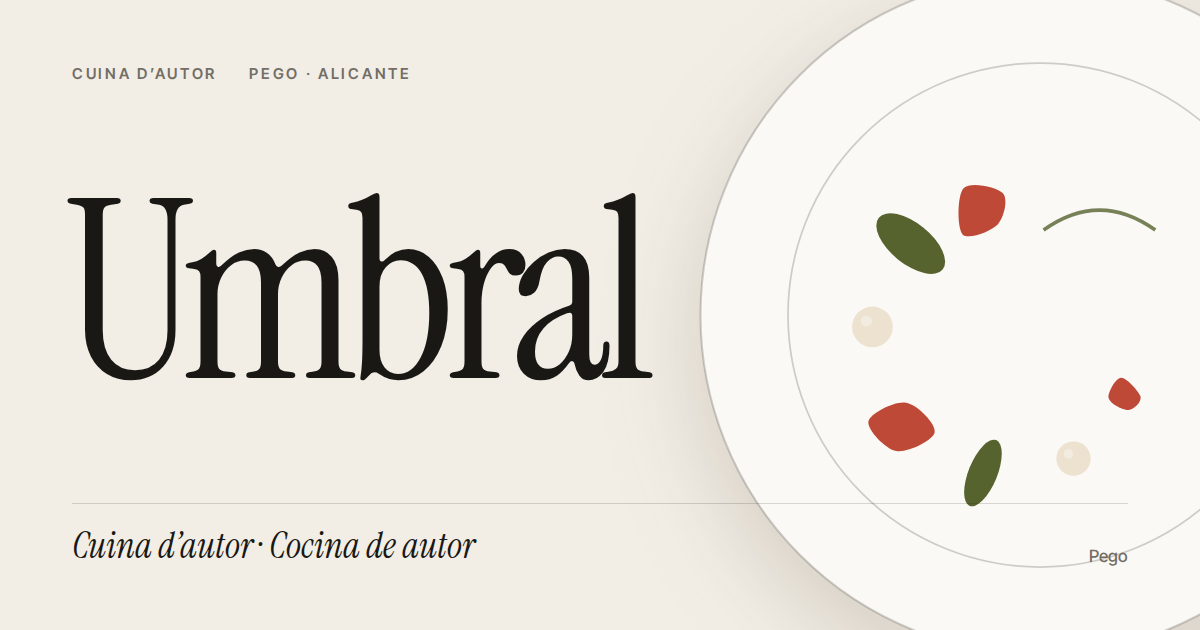
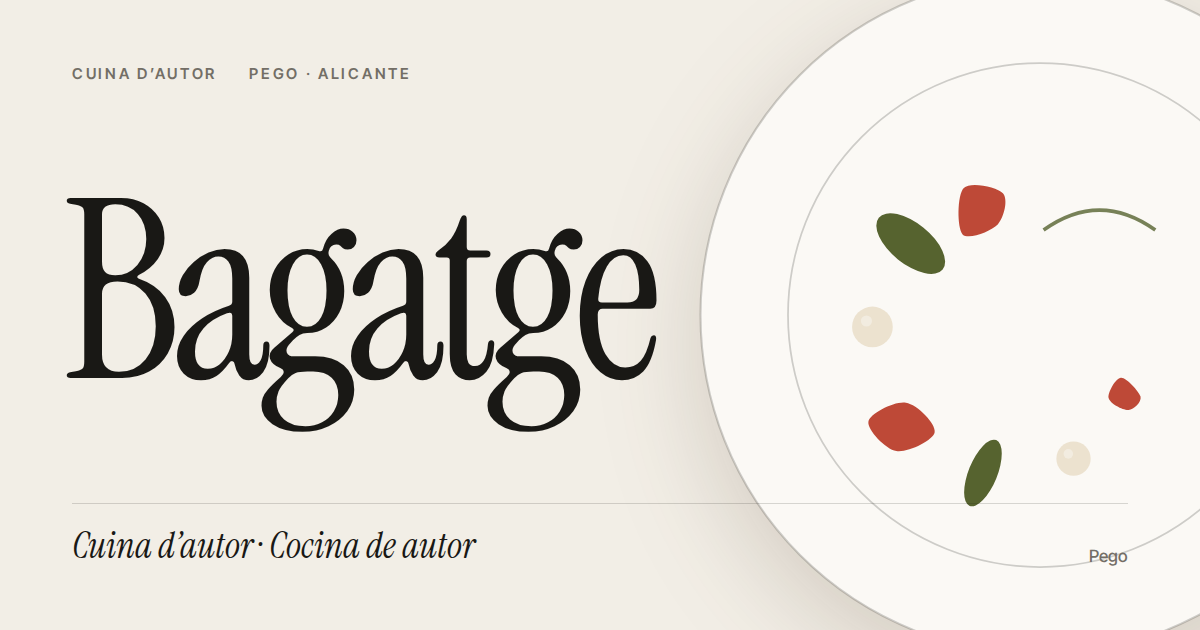
Pone el nombre definitivo: Bagatge
- Nombre del restaurante en toda la web, correos, SMS, datos
  estructurados, imagen para redes e iconos (regenerados).
- El menú largo pasa a llamarse «Bagatge».
- Más espacio para los descendentes de la «g» en la portada, el pie y el
  título del menú; la portada usa un cuerpo algo menor.
- Dominio previsto: bagatgerestaurant (se activa con SITE_URL).

Claude-Session: https://claude.ai/code/session_01UAizKvTfxv784jPSKfzqZ6

Changed region(s): [[0.0617, 0.3016, 0.555, 0.6937]]

diff --git a/restaurante/src/assets/css/site.css b/restaurante/src/assets/css/site.css
@@ -360,13 +360,14 @@ main > .section:last-of-type { padding-bottom: clamp(72px, 11vw, 168px); }
 .hero-meta { display: flex; flex-wrap: wrap; gap: 6px 28px; margin-bottom: clamp(8px, 2vh, 24px); }
 .hero-title {
   font-family: var(--serif);
-  font-size: clamp(96px, 23vw, 380px);
+  font-size: clamp(96px, 21vw, 340px);
   line-height: .78;
   letter-spacing: -.045em;
   margin-left: -.04em;
-  margin-bottom: clamp(24px, 5vh, 56px);
+  margin-bottom: clamp(8px, 2vh, 24px);
 }
-.hero-word { display: inline-flex; overflow: hidden; padding-bottom: .08em; }
+/* La máscara de la animación deja sitio a los descendentes (g, p, j). */
+.hero-word { display: inline-flex; overflow: hidden; padding-bottom: .26em; }
 .hero-word span { display: inline-block; transform: translateY(105%); animation: letter-up 1.2s var(--ease) both; animation-delay: calc(.15s + var(--i) * .06s); }
 @keyframes letter-up { to { transform: none; } }
 .hero-foot {
@@ -469,7 +470,7 @@ main > .section:last-of-type { padding-bottom: clamp(72px, 11vw, 168px); }
 .menu-detail + .menu-detail { margin-top: clamp(56px, 8vw, 120px); border-top: 1px solid var(--line); }
 .menu-detail-head { display: grid; grid-template-columns: minmax(0, 5fr) minmax(0, 7fr); gap: 24px clamp(32px, 6vw, 96px); align-items: end; margin-bottom: clamp(40px, 6vw, 80px); }
 .menu-detail-head .eyebrow { grid-column: 1 / -1; }
-.menu-detail-title { font-family: var(--serif); font-size: clamp(80px, 14vw, 220px); line-height: .82; letter-spacing: -.04em; padding-bottom: .14em; }
+.menu-detail-title { font-family: var(--serif); font-size: clamp(80px, 14vw, 220px); line-height: .82; letter-spacing: -.04em; padding-bottom: .24em; }
 .menu-detail-head .lead { grid-column: 2; grid-row: 2; align-self: end; }
 .menu-detail-prices { grid-column: 1 / -1; display: flex; flex-wrap: wrap; align-items: center; gap: 20px 48px; padding-top: 24px; border-top: 1px solid var(--line); }
 .menu-detail-prices p { margin: 0; }
@@ -800,6 +801,7 @@ main > .section:last-of-type { padding-bottom: clamp(72px, 11vw, 168px); }
   line-height: .74;
   letter-spacing: -.05em;
   margin: clamp(48px, 7vw, 96px) 0 0 -.04em;
+  padding-bottom: .24em;
   white-space: nowrap;
   color: var(--ink);
   user-select: none;
@@ -885,7 +887,7 @@ main > .section:last-of-type { padding-bottom: clamp(72px, 11vw, 168px); }
   .pairing-choice { padding-left: 0; }
   .slot { min-width: 84px; flex: 1 0 calc(33% - 10px); }
   .hero-plate { width: 88vw; right: -30vw; top: 15%; }
-  .hero-title { font-size: 25vw; margin-bottom: 20px; }
+  .hero-title { font-size: 24vw; margin-bottom: 4px; }
   .hero-clock { display: none; }
   .hero-lede { font-size: 22px; }
   .footer-bottom { flex-direction: column; align-items: flex-start; }

diff --git a/restaurante/README.md b/restaurante/README.md
@@ -2,7 +2,7 @@
 
 Web trilingüe (**valenciano por defecto en `/va/`**, castellano en `/es/`, inglés en `/en/`; la raíz `/` lleva al valenciano), con sistema de reservas propio y panel de gestión. Funciona en el plan gratuito de Netlify, sin base de datos externa: los datos se guardan en Netlify Blobs.
 
-> **Nombre provisional:** «Umbral» y todos los datos marcados como PROVISIONAL (dirección, teléfono, equipo, productores, datos fiscales) son de relleno. Se cambian en `site.config.mjs` y `content/*.mjs`.
+> **Bagatge.** Los datos marcados como PROVISIONAL (dirección, teléfono, equipo, productores, datos fiscales) son de relleno y se cambian en `site.config.mjs` y `content/*.mjs`. Dominio previsto: `bagatgerestaurant` (definirlo en `SITE_URL`).
 
 ## Qué incluye
 
